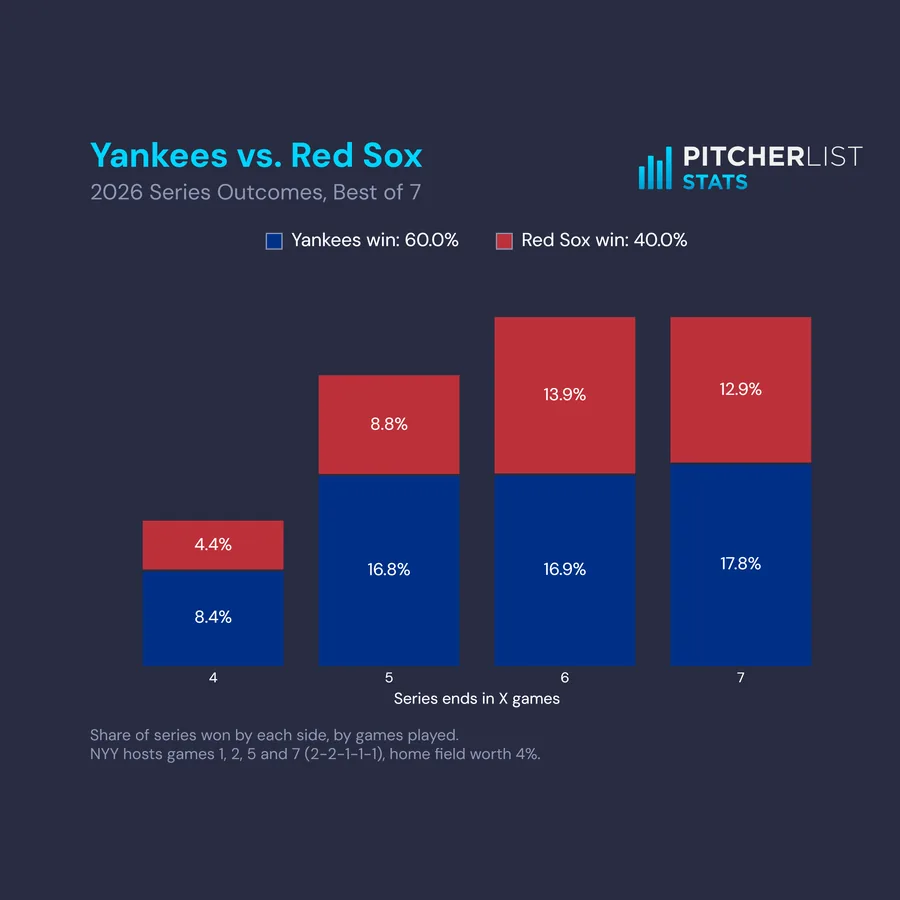
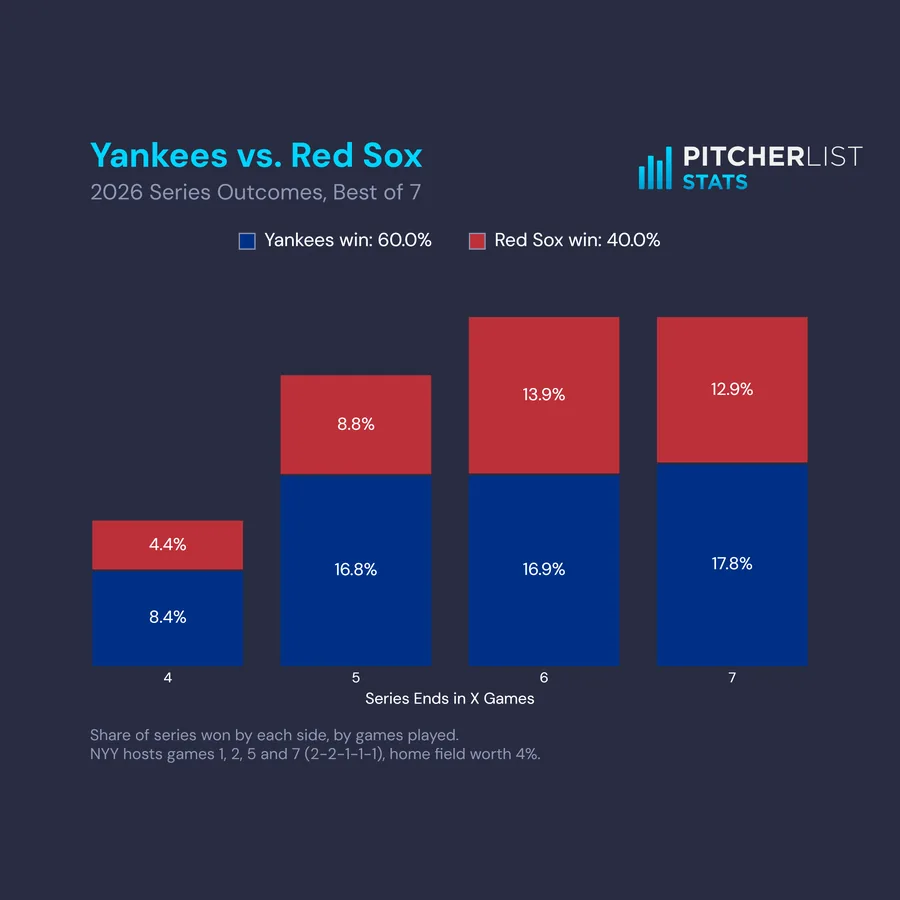
Series Win: centre the outcomes chart on the image
The outcomes chart has no y axis, so its axes no longer keep the Swing
Profiles left margin: they take the right margin on both sides, which
centres the bars, the key and the x label on the image. The homepage
tile is rebuilt from it.

diff --git a/index.html b/index.html
@@ -124,7 +124,7 @@
 								</article>
 									<article class="style3">
 									<span class="image">
-										<img src="images/tile-series-win.webp?v=3" srcset="images/tile-series-win-720.webp?v=3 720w, images/tile-series-win.webp?v=3 900w" sizes="(max-width: 480px) 100vw, (max-width: 980px) 50vw, 380px" width="900" height="900" alt="Yankees vs. Red Sox series outcomes, best of 7" />
+										<img src="images/tile-series-win.webp?v=4" srcset="images/tile-series-win-720.webp?v=4 720w, images/tile-series-win.webp?v=4 900w" sizes="(max-width: 480px) 100vw, (max-width: 980px) 50vw, 380px" width="900" height="900" alt="Yankees vs. Red Sox series outcomes, best of 7" />
 									</span>
 									<a href="/series-win/">
 										<h2>Series Win</h2>

diff --git a/series-win/chart.js b/series-win/chart.js
@@ -501,6 +501,9 @@
 
   function drawOutcomesSwing(canvas, res, opts, scale) {
     const f = swingFigure(canvas, scale), { ctx, ax, text, measure } = f;
+    // no y axis to make room for, so the axes take the right margin on both sides and the
+    // bars, the key and the x label centre on the image
+    ax.x0 = f.W - ax.x1;
     const n = res.games;
     const space = [];
     for (let g = res.need; g <= n; g++) space.push(g);

diff --git a/series-win/index.html b/series-win/index.html
@@ -133,7 +133,7 @@ details[open] summary{margin-bottom:10px}
     </details>
   </section>
 </main>
-<script src="chart.js?v=4"></script>
+<script src="chart.js?v=5"></script>
 <script src="app.js?v=5"></script>
 </body>
 </html>
